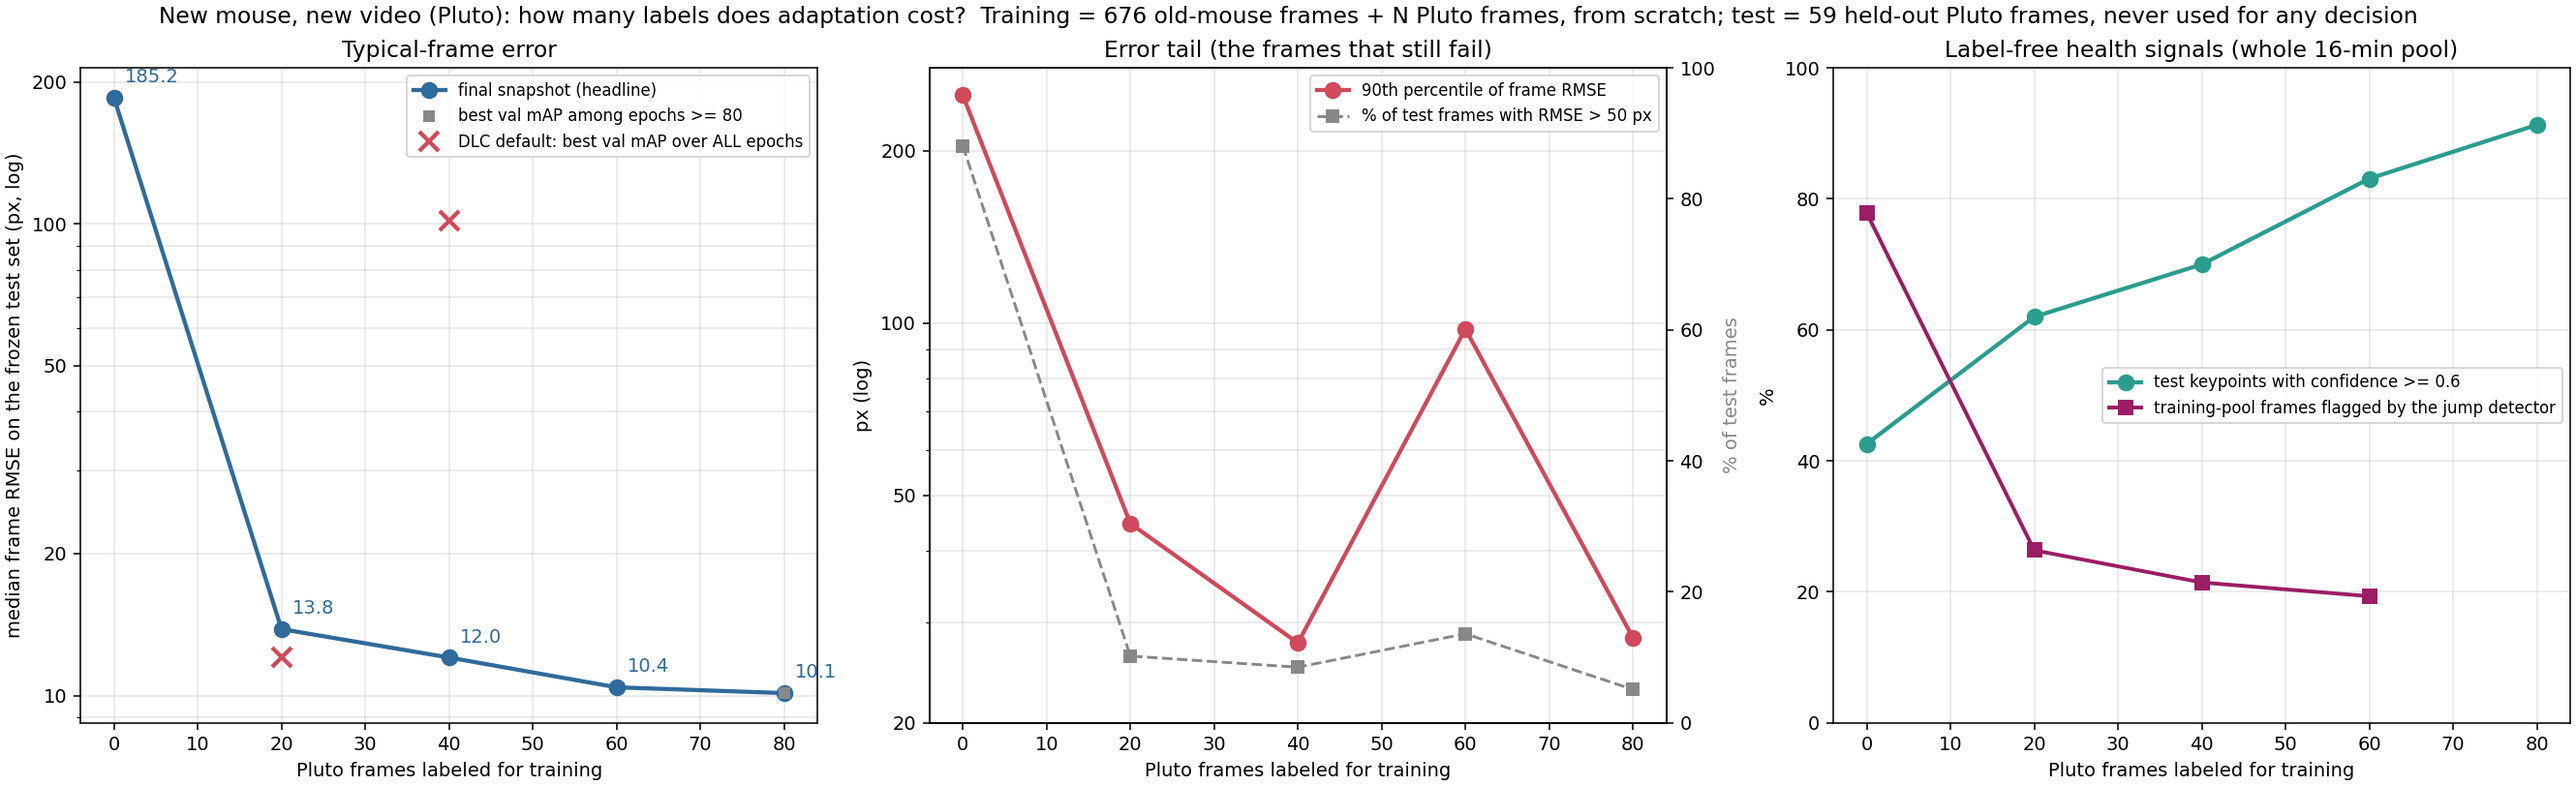
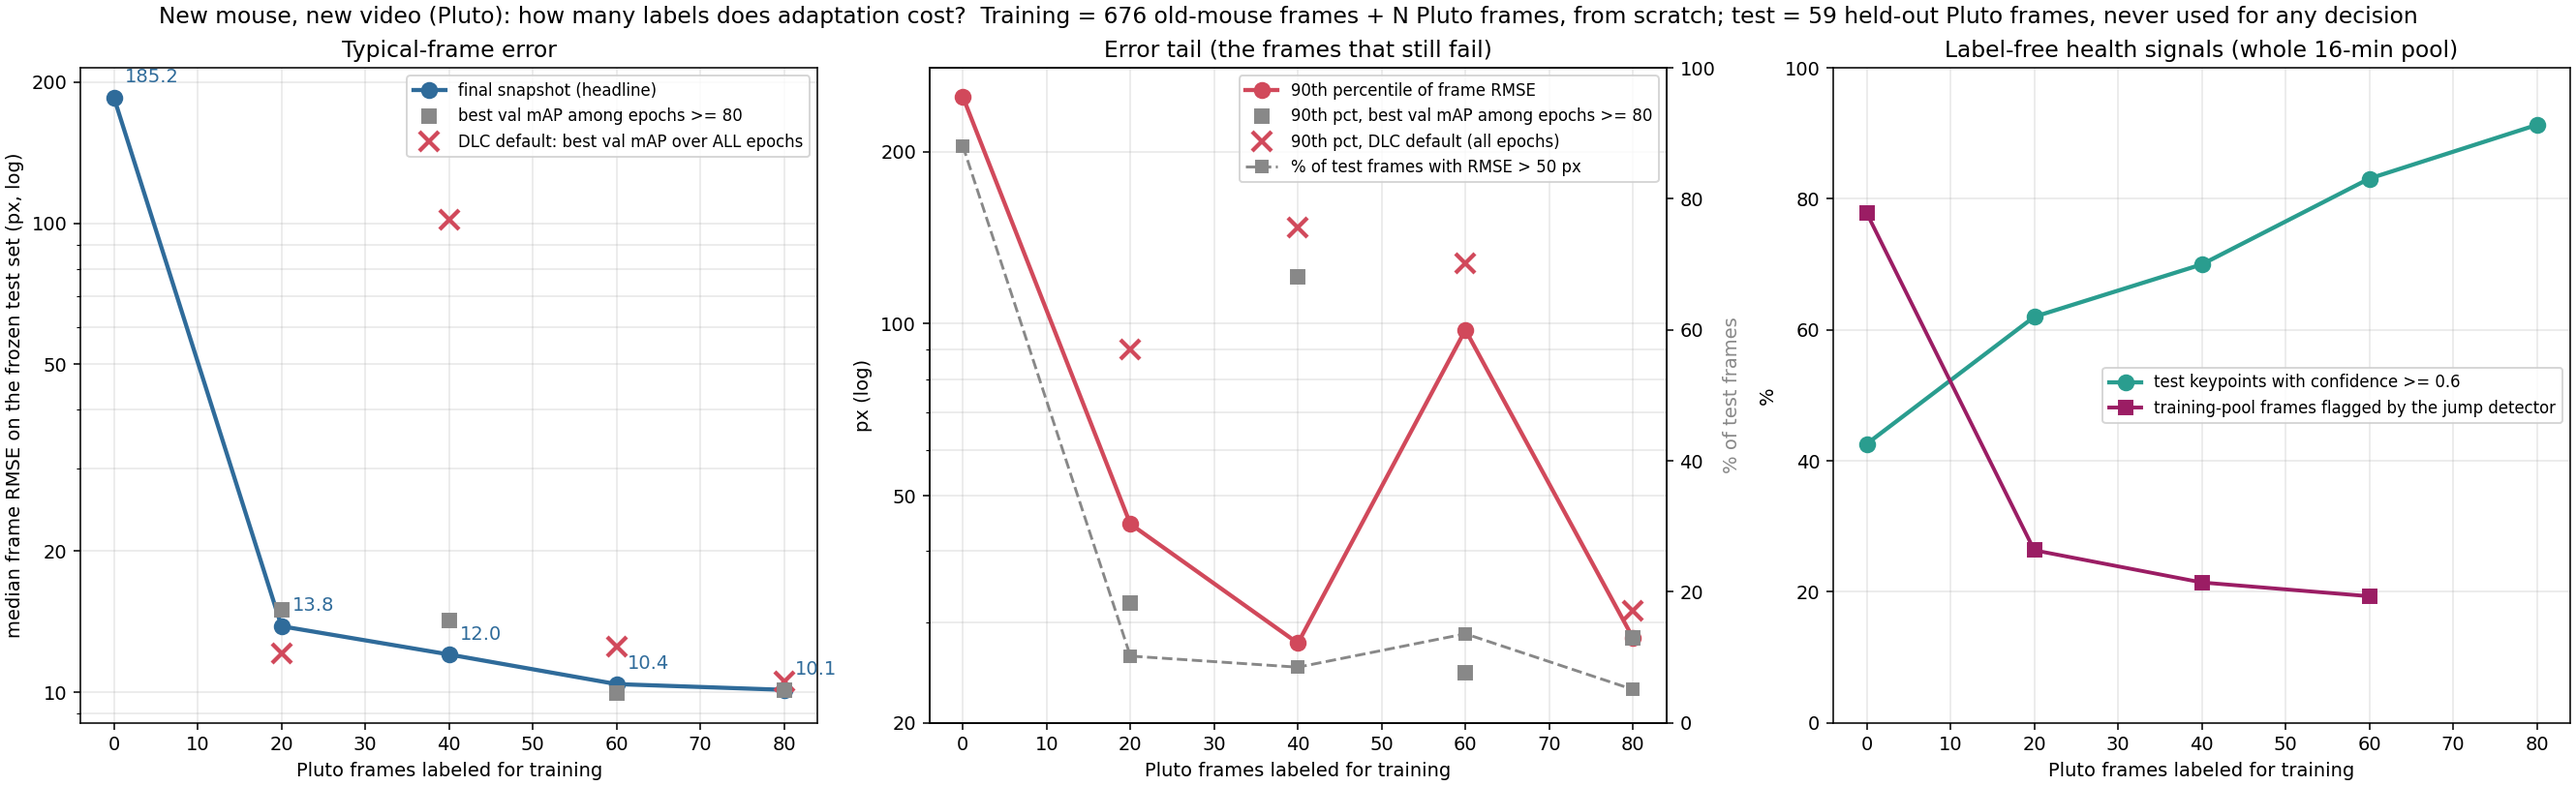
Scale curve: backfill missing snapshot-rule marks, fix plot filter
The step-3 DLC-default point was dropped by a string filter, and the
epochs>=80 robustness point existed only for step 4. Score the four
missing snapshots (report-only) and show both rules in the tail panel.
Tail (p90) swings between neighbouring snapshots of the same run, so the
step-3 spike is snapshot-level noise on 59 test frames.

diff --git a/new-video-generalization/scripts/plot_scale_curve.py b/new-video-generalization/scripts/plot_scale_curve.py
@@ -17,7 +17,7 @@ is_seed2 = d["label"].str.contains("seed43")
 head = d[(d["snapshot_rule"].str.startswith("final") | d["snapshot_rule"].str.startswith("n/a")) & ~is_seed2].sort_values(x)
 rep = d[d["snapshot_rule"].str.startswith("final") & is_seed2]
 rob = d[d["snapshot_rule"].str.contains(">= 80")]
-legacy = d[d["snapshot_rule"].str.contains("->")]
+legacy = d[d["snapshot_rule"].str.startswith("best validation mAP") & ~d["snapshot_rule"].str.contains(">= 80")]
 BLUE, RED, GREEN, GRAY = "#2F6B9A", "#D1495B", "#2A9D8F", "#888888"
 
 fig, axes = plt.subplots(1, 3, figsize=(19, 5.8), constrained_layout=True)
@@ -29,7 +29,7 @@ for _, r in head.iterrows():
 if len(rep):
     ax.plot(rep[x], rep["median_frame_rmse_px"], "o", mfc="none", mec=BLUE, ms=10, mew=1.8, label="second seed (run-to-run noise)")
 if len(rob):
-    ax.plot(rob[x], rob["median_frame_rmse_px"], "s", color=GRAY, ms=5, label="best val mAP among epochs >= 80")
+    ax.plot(rob[x], rob["median_frame_rmse_px"], "s", color=GRAY, ms=7, zorder=5, label="best val mAP among epochs >= 80")
 if len(legacy):
     ax.plot(legacy[x], legacy["median_frame_rmse_px"], "x", color=RED, ms=10, mew=2.2,
             label="DLC default: best val mAP over ALL epochs")
@@ -41,6 +41,10 @@ ax = axes[1]
 ax.plot(head[x], head["p90_frame_rmse_px"], "o-", color=RED, lw=2.2, ms=8, label="90th percentile of frame RMSE")
 if len(rep):
     ax.plot(rep[x], rep["p90_frame_rmse_px"], "o", mfc="none", mec=RED, ms=10, mew=1.8, label="second seed")
+if len(rob):
+    ax.plot(rob[x], rob["p90_frame_rmse_px"], "s", color=GRAY, ms=7, zorder=5, label="90th pct, best val mAP among epochs >= 80")
+if len(legacy):
+    ax.plot(legacy[x], legacy["p90_frame_rmse_px"], "x", color=RED, ms=10, mew=2.2, label="90th pct, DLC default (all epochs)")
 ax.set_yscale("log"); ax.set_yticks([20, 50, 100, 200]); ax.set_yticklabels(["20", "50", "100", "200"])
 ax.set_xlabel("Pluto frames labeled for training"); ax.set_ylabel("px (log)"); ax.grid(alpha=0.3, which="both")
 ax2 = ax.twinx()

diff --git a/new-video-generalization/scripts/backfill_snapshot_rules.py b/new-video-generalization/scripts/backfill_snapshot_rules.py
@@ -1,0 +1,37 @@
+#!/usr/bin/env python3
+"""Score the snapshot-rule comparison points that scale_step.py did not produce at the time
+(steps 1-3 predate the ">= 80" rule; step 4 never scored DLC's default pick).
+
+Report-only: these rows are secondary marks in 03_scale_curve.png and feed no decision.
+The epoch for each rule is read from learning_stats.csv (validation mAP), never from the test set.
+
+    python backfill_snapshot_rules.py
+"""
+import glob
+from pathlib import Path
+
+import pandas as pd
+
+import scale_step as ss
+
+rtp = ss.rtp
+STEPS = [(1, 61, 97, 20), (2, 72, 97, 40), (3, 73, 97, 60), (4, 84, 94, 80)]   # step, shuffle, trainset %, Pluto frames
+done = set(pd.read_csv(ss.CURVE)["label"])
+
+for step, shuffle, pct, n_new in STEPS:
+    tdir = glob.glob(str(rtp.PROJECT / "dlc-models-pytorch" / "iteration-0" / f"*trainset{pct}shuffle{shuffle}" / "train"))[0]
+    snaps = sorted(Path(x).name for x in glob.glob(tdir + "/snapshot-*.pt"))
+    find = lambda ep: next(k for k, n in enumerate(snaps) if n in (f"snapshot-{ep:03d}.pt", f"snapshot-best-{ep:03d}.pt"))
+    tsi = rtp.ensure_fraction(pct / 100)
+    st = pd.read_csv(tdir + "/learning_stats.csv")
+    st = st[st["metrics/test.mAP"].notna()]
+    ep_all = int(st.loc[st["metrics/test.mAP"].idxmax(), "step"])
+    late = st[st["step"] >= 80]
+    ep_late = int(late.loc[late["metrics/test.mAP"].idxmax(), "step"])
+    base = f"x{n_new:03d}_step{step:02d}"
+    for label, ep, rule in [(f"{base}_mAP80plus", ep_late, "best validation mAP among epochs >= 80"),
+                            (f"{base}_mAPall", ep_all, f"best validation mAP -> epoch {ep_all}")]:
+        legacy = f"{base}_scratch"            # steps 1-3 already hold the all-epochs row under this label
+        if label in done or (label.endswith("_mAPall") and legacy in done):
+            continue
+        ss.evaluate(shuffle, tsi, label, "seed42", n_new, snapshot_index=find(ep), rule=rule)

diff --git a/new-video-generalization/FROZEN_PARAMETERS.md b/new-video-generalization/FROZEN_PARAMETERS.md
@@ -43,6 +43,18 @@ For consistency the completed active-learning experiment is re-scored under
 the same rule (active-learning/results/convergence_final_snapshot.csv).
 The stopping rule is evaluated on the final-snapshot series only.
 
+Backfill (2026-09-19, report-only): steps 1-3 predate the ">= 80" column and
+step 4 never scored DLC's default pick, so `scripts/backfill_snapshot_rules.py`
+scored those four snapshots afterwards (epochs read from validation mAP, not
+from the test set). They appear as secondary marks in `03_scale_curve.png`
+and feed no decision. What they show: the median barely depends on the rule
+once epochs < 80 are excluded (15.0 / 14.2 / 10.0 / 10.1 px vs 13.8 / 12.0 /
+10.4 / 10.1 px), but the 90th percentile swings between neighbouring
+snapshots of the SAME run (step 2: 27.6 px at epoch 100 vs 120.8 px at epoch
+80; step 3: 97.6 px at epoch 100 vs 24.5 px at epoch 90). The step-3 tail
+spike is therefore snapshot-level noise on a 59-frame test set, not evidence
+that batch 3 hurt the model; tail numbers need the seed replicates.
+
 ## Per-video split rule (applies to any new video; fps and length read from the file)
 
 - **Test set**: 100 frames evenly spaced over the final 10% of the video
